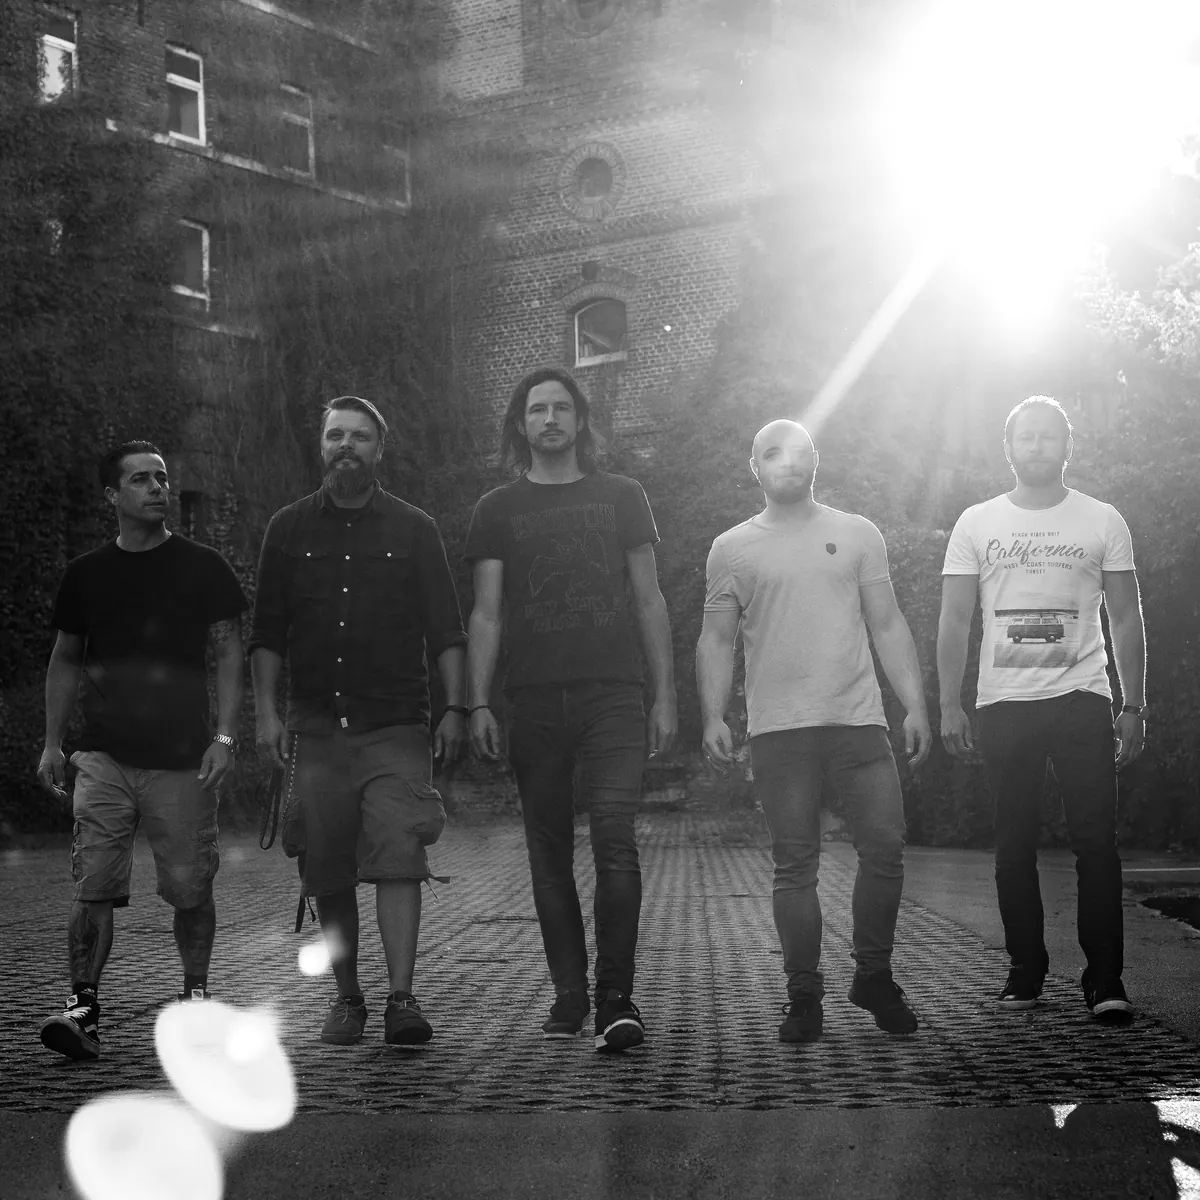
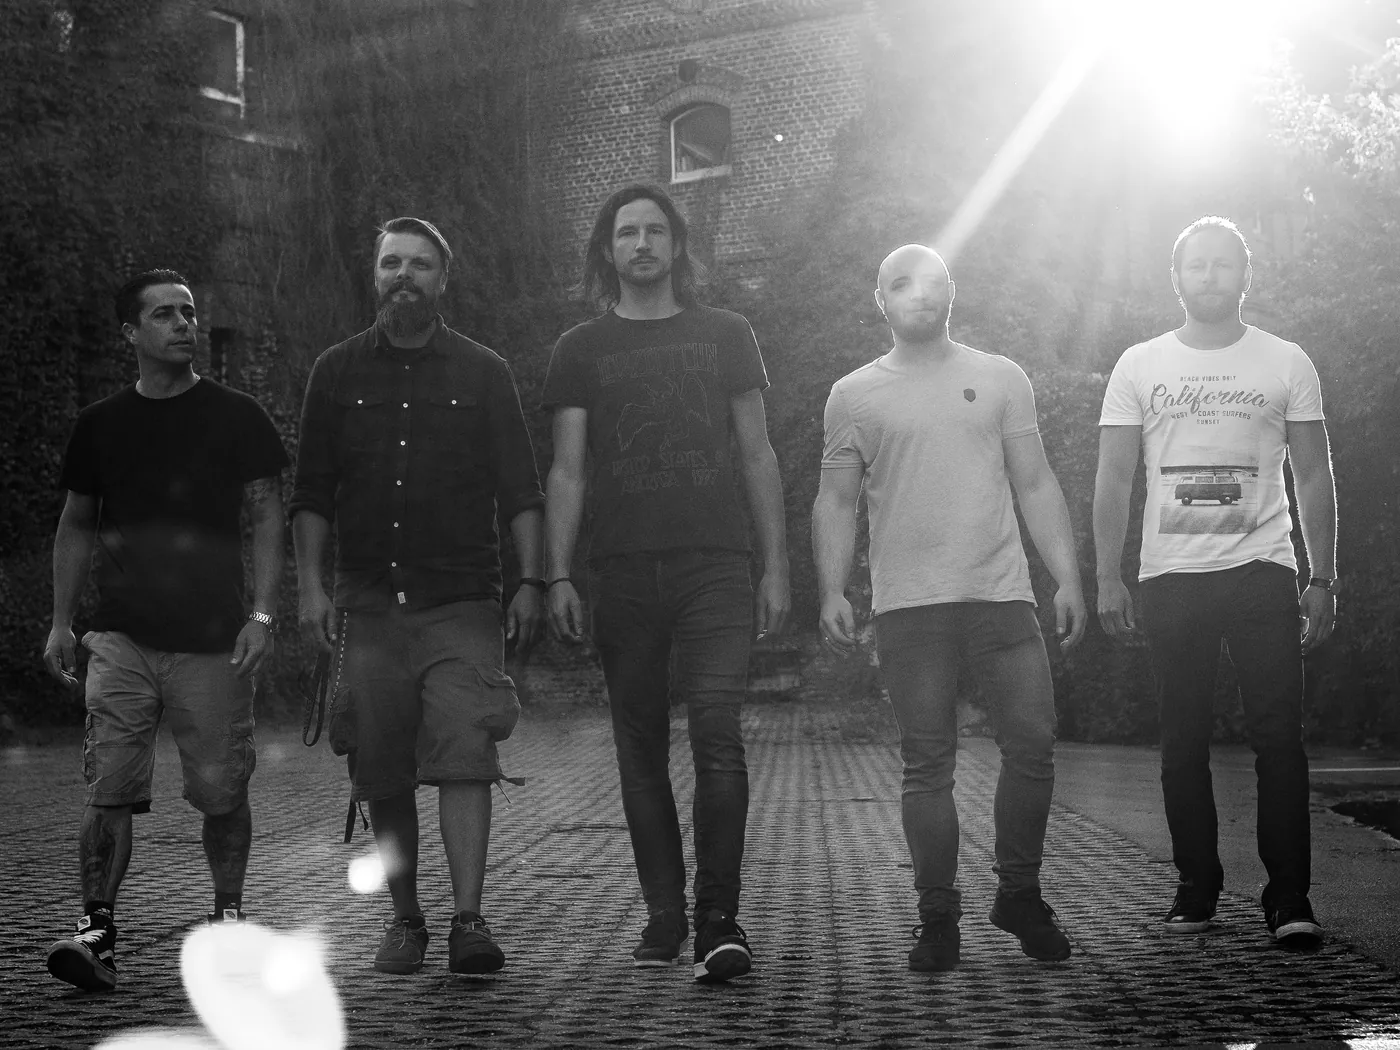
Wassenrock-Fotos, Start-Foto mit allen fünf, Spruch entfernt
- Galerie: 12 Fotos vom Wassenrock 2024 (Armin Zedler) statt Proberaum-Fotos,
  als Schwarz-Weiß gespeichert, Gruppe und jedes Mitglied einzeln
- Start-Foto: alle fünf sichtbar (Handy neuer Zuschnitt, Desktop ohne
  seitlichen Beschnitt), Logo kleiner und unten
- Claim im Hero und in og:description entfernt
- Abschnittstitel einzeilig, „Kontakt“ bricht nicht mehr um
- CLAUDE.md/STAND.md: Design-System als Quelle, Stand nachgetragen

diff --git a/index.html b/index.html
@@ -10,7 +10,7 @@
   <link rel="apple-touch-icon" href="assets/img/apple-touch-icon.png">
   <meta property="og:type" content="website">
   <meta property="og:title" content="NOFUNKSHUN">
-  <meta property="og:description" content="Post-Rock · Stoner · Metal aus Aachen. Musik soll man nicht nur hören, sondern vor allem spüren.">
+  <meta property="og:description" content="Post-Rock · Stoner · Metal aus Aachen.">
   <meta property="og:image" content="assets/img/hero-quer.webp">
   <link rel="preload" href="assets/fonts/grunge.ttf" as="font" type="font/ttf" crossorigin>
   <link rel="stylesheet" href="styles.css">
@@ -57,10 +57,6 @@
           <img src="assets/img/logo.webp" alt="Nofunkshun" width="900" height="872">
         </h1>
         <p class="hero__genre">Post-Rock · Stoner · Metal · Aachen</p>
-        <p class="hero__claim">
-          <span lang="de">Musik soll man nicht nur hören, sondern vor allem spüren.</span>
-          <span lang="en">Music isn’t just meant to be heard. It’s meant to be felt.</span>
-        </p>
         <div class="hero__cta">
           <a class="btn btn--solid" href="https://open.spotify.com/artist/3h1Febi28MziUNpcq5khGA" target="_blank" rel="noopener">
             <span lang="de">Auf Spotify hören</span><span lang="en">Listen on Spotify</span>
@@ -155,20 +151,28 @@
     <section class="sec" id="fotos">
       <h2 class="sec__title"><span lang="de">Fotos</span><span lang="en">Photos</span></h2>
       <div class="gallery">
-        <a href="assets/img/foto-00810.webp" class="g--wide g--big"><img src="assets/img/foto-00810.webp" alt="Nofunkshun vor einer Graffitiwand" loading="lazy"></a>
-        <a href="assets/img/foto-00880.webp"><img src="assets/img/foto-00880.webp" alt="Gesang im Proberaum" loading="lazy"></a>
-        <a href="assets/img/foto-00905.webp"><img src="assets/img/foto-00905.webp" alt="Bassdrum mit Nofunkshun-Logo" loading="lazy"></a>
-        <a href="assets/img/foto-00939.webp"><img src="assets/img/foto-00939.webp" alt="Schlagzeug" loading="lazy"></a>
-        <a href="assets/img/foto-00917.webp"><img src="assets/img/foto-00917.webp" alt="Bandmitglied am Mikrofon" loading="lazy"></a>
-        <a href="assets/img/foto-00893.webp"><img src="assets/img/foto-00893.webp" alt="Gitarrist im Gegenlicht" loading="lazy"></a>
-        <a href="assets/img/foto-00815.webp"><img src="assets/img/foto-00815.webp" alt="Bandfoto vor Graffiti" loading="lazy"></a>
-        <a href="assets/img/foto-00907.webp" class="g--wide"><img src="assets/img/foto-00907.webp" alt="Gitarrist vor Marshall-Verstärker" loading="lazy"></a>
+        <a href="assets/img/wassenrock-0022.webp" class="g--wide"><img src="assets/img/wassenrock-0022.webp" alt="Nofunkshun auf der Bühne vor dem Banner, Wassenrock 2024" loading="lazy"></a>
+        <a href="assets/img/wassenrock-0004.webp"><img src="assets/img/wassenrock-0004.webp" alt="Gesang" loading="lazy" style="object-position:50% 20%"></a>
+        <a href="assets/img/wassenrock-0090.webp"><img src="assets/img/wassenrock-0090.webp" alt="Bass" loading="lazy" style="object-position:50% 30%"></a>
+        <a href="assets/img/wassenrock-0016.webp"><img src="assets/img/wassenrock-0016.webp" alt="Gitarre" loading="lazy" style="object-position:50% 30%"></a>
+        <a href="assets/img/wassenrock-0012.webp"><img src="assets/img/wassenrock-0012.webp" alt="Gitarre" loading="lazy"></a>
+        <a href="assets/img/wassenrock-0053.webp" class="g--wide"><img src="assets/img/wassenrock-0053.webp" alt="Schlagzeug" loading="lazy" style="object-position:50% 70%"></a>
+        <a href="assets/img/wassenrock-0074.webp"><img src="assets/img/wassenrock-0074.webp" alt="Bass und Gitarre nebeneinander" loading="lazy" style="object-position:50% 35%"></a>
+        <a href="assets/img/wassenrock-0028.webp"><img src="assets/img/wassenrock-0028.webp" alt="Schlagzeug mit Nofunkshun-Bassdrum" loading="lazy" style="object-position:50% 75%"></a>
+        <a href="assets/img/wassenrock-0047.webp" class="g--wide"><img src="assets/img/wassenrock-0047.webp" alt="Die Band auf der Wassenrock-Bühne" loading="lazy"></a>
+        <a href="assets/img/wassenrock-0042.webp" class="g--wide"><img src="assets/img/wassenrock-0042.webp" alt="Gitarre und Bass" loading="lazy" style="object-position:50% 65%"></a>
+        <a href="assets/img/wassenrock-0081.webp"><img src="assets/img/wassenrock-0081.webp" alt="Gesang, Nahaufnahme" loading="lazy" style="object-position:70% 50%"></a>
+        <a href="assets/img/wassenrock-0025.webp"><img src="assets/img/wassenrock-0025.webp" alt="Bass vor dem Banner" loading="lazy" style="object-position:50% 55%"></a>
       </div>
+      <p class="gallery__credit">
+        <span lang="de">Fotos: Armin Zedler · Wassenrock 2024</span><span lang="en">Photos: Armin Zedler · Wassenrock 2024</span>
+        · <a href="https://www.armin-zedler.de" target="_blank" rel="noopener">armin-zedler.de</a>
+      </p>
     </section>
 
     <!-- ── KONTAKT ──────────────────────────────────────── -->
     <section class="sec sec--contact" id="kontakt">
-      <h2 class="sec__title"><span lang="de">Kontakt</span><span lang="en">Contact</span></h2>
+      <h2 class="sec__title" style="--title-em:11"><span lang="de">Kontakt</span><span lang="en">Contact</span></h2>
       <p class="kicker"><span lang="de">Booking &amp; Anfragen</span><span lang="en">Booking &amp; inquiries</span></p>
       <a class="mail" href="mailto:nofunkshun@gmail.com?subject=Booking%20Nofunkshun">nofunkshun@gmail.com</a>
       <ul class="social">

diff --git a/styles.css b/styles.css
@@ -86,21 +86,37 @@ html[data-lang="en"] .lang [data-set-lang="en"] { background: var(--ink); color:
 .hero__bg, .hero__bg img {
   position: absolute; inset: 0; width: 100%; height: 100%; z-index: -2;
 }
-.hero__bg img { object-fit: cover; object-position: 50% 30%; filter: grayscale(1) contrast(1.15) brightness(.72); }
+.hero__bg img { filter: grayscale(1) contrast(1.1) brightness(.8); }
+/* Bandfoto immer ganz zeigen: alle fünf im Bild, kein Rand abgeschnitten.
+   Hochkant/schmal: Foto oben unter der Kopfleiste, Logo darunter. */
+.hero__bg img { object-fit: contain; object-position: 50% 56px; }
+/* Logo-Block unten, damit kein Gesicht verdeckt wird */
+.hero { place-items: end center; }
+/* Hochkant: Foto als Band oben, unterer Rand läuft weich in den Grund aus */
+@media (max-aspect-ratio: 1/1) {
+  .hero__bg img {
+    top: 56px; bottom: auto; height: auto; object-fit: fill;
+    -webkit-mask-image: linear-gradient(to bottom, #000 75%, transparent);
+            mask-image: linear-gradient(to bottom, #000 75%, transparent);
+  }
+}
+/* Breiter als das Foto (16:9): füllen, oben ausrichten, Köpfe bleiben drin */
+@media (min-aspect-ratio: 16/9) {
+  .hero__bg img { object-fit: cover; object-position: 50% 15%; }
+}
 .hero::before {
   content: ""; position: absolute; inset: 0; z-index: -1;
   background:
-    radial-gradient(ellipse at 50% 40%, rgba(11,11,11,.15), rgba(11,11,11,.75) 70%),
+    radial-gradient(ellipse at 50% 40%, rgba(11,11,11,.1), rgba(11,11,11,.4) 80%),
     linear-gradient(to bottom, rgba(11,11,11,0) 55%, var(--bg));
 }
 .hero__inner { width: 100%; max-width: 720px; }
-.hero__logo { margin: 0 auto; width: min(78vw, 460px); }
+.hero__logo { margin: 0 auto; width: min(66vw, 330px); }
 .hero__logo img { width: 100%; filter: drop-shadow(0 4px 30px rgba(0,0,0,.6)); }
 .hero__genre {
-  margin: 22px 0 10px;
+  margin: 22px 0 28px;
   font: 600 11px/1.4 var(--mono); letter-spacing: .14em; text-transform: uppercase; color: var(--ink-dim);
 }
-.hero__claim { margin: 0 auto 28px; max-width: 30ch; font-size: clamp(18px, 4.6vw, 24px); line-height: 1.35; }
 .hero__cta { display: flex; flex-wrap: wrap; gap: 12px; justify-content: center; }
 .hero__down {
   position: absolute; bottom: 18px; left: 50%; transform: translateX(-50%);
@@ -130,9 +146,11 @@ html[data-lang="en"] .lang [data-set-lang="en"] { background: var(--ink); color:
 }
 .sec__title {
   margin: 0 0 32px;
-  font: 400 clamp(38px, 11vw, 96px)/1 var(--display);
+  /* Grunge läuft in Großbuchstaben sehr breit. Titel bleiben einzeilig und
+     werden so klein, dass das breiteste Wort (--title-em, Breite in em) passt. */
+  font: 400 min(clamp(38px, 11vw, 96px), calc((min(100vw, var(--max)) - 2 * var(--pad)) / var(--title-em, 8.9)))/1 var(--display);
   letter-spacing: 0; text-transform: uppercase;
-  overflow-wrap: anywhere;
+  white-space: nowrap;
   transform: rotate(-1.5deg); transform-origin: left;
 }
 .sec__title::after {
@@ -209,10 +227,11 @@ html[data-lang="en"] .lang [data-set-lang="en"] { background: var(--ink); color:
 .gallery .g--wide { grid-column: span 2; aspect-ratio: 2 / 1.2; }
 .gallery img {
   width: 100%; height: 100%; object-fit: cover;
-  filter: grayscale(1) contrast(1.1);
-  transition: filter .4s, transform .6s;
+  transition: transform .6s;
 }
-.gallery a:hover img, .gallery a:focus-visible img { filter: none; transform: scale(1.03); }
+/* Fotos sind schon schwarz-weiß gespeichert; beim Drüberfahren nur Zoom */
+.gallery a:hover img, .gallery a:focus-visible img { transform: scale(1.03); }
+.gallery__credit { margin: 14px 0 0; font: 12px/1.6 var(--mono); letter-spacing: .1em; text-transform: uppercase; color: var(--ink-dim); }
 
 /* ── Kontakt ────────────────────────────────── */
 .sec--contact { padding-bottom: 96px; }

diff --git a/STAND.md b/STAND.md
@@ -2,6 +2,10 @@
 
 **08.11.2026 · ONLINE: https://daddytomsen.github.io/nofunkshun/** (Repo daddytomsen/nofunkshun, öffentlich, Pages aus `main` /root, HTTPS an). Spotify-Player live geprüft. Nächster Schritt: Domain nofunkshun.de bei INWX (Thomas bucht), dann CNAME + DNS.
 
+**08.11.2026 nachmittags · Design-System angelegt:** https://claude.ai/artifact/R4JMHWAvCYierNeu9i2Ws5 (Tokens aus styles.css, Grunge-Schrift, 12 Bauteile, Logos/Artwork/Fotos). Die Website nutzt es noch nicht direkt: Variablennamen weichen ab (`--display` statt `--font-display` usw.), und der Hover des gefüllten Buttons zeigt `ink` auf `accent` (3,55:1) statt `bg` auf `accent`.
+
+**08.11.2026 abends · Fotos und Start überarbeitet (lokal, noch nicht hochgeladen):** Galerie durch 12 Wassenrock-2024-Fotos ersetzt (Gruppe + jedes Mitglied einzeln, als Schwarz-Weiß gespeichert, Nennung „Fotos: Armin Zedler“ unter der Galerie). Start-Foto zeigt jetzt alle fünf (Handy: neuer Zuschnitt aus DSC00787; Desktop: Foto wird nicht mehr seitlich beschnitten, Logo sitzt tiefer und kleiner). Claim „Musik soll man nicht nur hören …“ auf Thomas' Wunsch entfernt. **Design-System nachziehen:** Hero ohne Claim, Galerie-Fotos ohne Farbe beim Drüberfahren, Logo im Hero 330 px unten statt 460 px mittig.
+
 ## Was drin ist
 - `index.html` – eine Seite: Start (Logo, Claim, Spotify, nächster Gig) · Live · Musik (Black Moon EP, Spotify-Player per Zwei-Klick, Teaser-Video) · Band (Bio + Besetzung) · Fotos · Kontakt
 - DE/EN-Umschalter (merkt sich die Wahl; Erstwahl nach Browsersprache)
@@ -14,7 +18,8 @@
 |---|---|
 | Bio, Besetzung | `Bio Nofunkshun.docx` (sprachlich gestrafft, EN übersetzt, nichts ergänzt) |
 | Logo, Black-Moon-Logo, Cover | `Art-Work/` (Logo für dunklen Grund weiß umgefärbt) |
-| Fotos | `Bandfotos/` DSC00787 (Start mobil), DSC00782 (Start Desktop), 00810, 00880, 00905, 00939, 00917, 00893, 00815, 00907 |
+| Start-Foto | `Bandfotos/` DSC00787 (mobil, Zuschnitt mit allen fünf), DSC00782 (Desktop) |
+| Galerie | `/Volumes/Transcend/Nofunkshun/Nofunkshun/Wassernrock 07.09.24 3000 NoFunkshun/` Nr. 0022, 0004, 0090, 0016, 0012, 0053, 0074, 0028, 0047, 0042, 0081, 0025 – Fotograf Armin Zedler (Wasserzeichen bleibt drin) |
 | Teaser | `Videos/Nofunkshun Black Moon Teaser 2021 Kopie.mp4` → 720p, 8,7 MB |
 | Schrift Überschriften | `Art-Work/grunge.ttf` |
 | Tracklist EP | Dateinamen in `Album_Black Moon/` |
@@ -30,7 +35,8 @@ Bewusst **nicht** verwendet: Fotos mit „Bruises“-Banner (fremde Band), Wasse
 3. **YouTube:** Kanal existiert offenbar (Screenshot im Artwork), Link fehlt.
 4. **Vergangene Gigs** in `gigs.js` nachtragen; Datum MUBU 2019.
 5. Wer ist auf welchem Foto? (Dann wären Einzelfotos bei der Besetzung möglich.)
-6. Fotograf/in der Bandfotos nennen?
+6. Fotograf/in der Proberaum-Bandfotos (Start-Foto) nennen? Für die Wassenrock-Fotos steht Armin Zedler drin – passt die Nutzung mit ihm so?
+7. ~~„KONTAKT“ brach um (T in zweiter Zeile)~~ – behoben 08.11.2026: Abschnittstitel bleiben einzeilig und verkleinern sich nach Wortbreite (`--title-em`, Standard 8,9 em, Kontakt 11 em). Ins Design-System übernehmen.
 
 ## Vorschau lokal
 Vorschau-Server „nofunkshun“ (Port 8798) liest aus einem Scratchpad-Spiegel, weil der Server `~/Downloads` nicht lesen darf. Nach Änderungen: `rsync -a --delete --exclude .claude ~/Downloads/nofunkshun-website/ <spiegel>/`.

diff --git a/CLAUDE.md b/CLAUDE.md
@@ -11,6 +11,9 @@ Eine einseitige Landingpage für die Band „nofunkshun“: wer die Band ist, wi
 - Keine fremden Logos oder Markennamen erfinden. Plattform-Links (Spotify, Bandcamp …) als schlichte Textlinks bzw. eigene neutrale Icons.
 - Fotos und Logo nur aus den Quellen, die Thomas nennt. Originale bleiben, wo sie sind; Kopien für die Seite liegen verkleinert in `assets/`.
 
+## Design-System
+Verbindliche Quelle für Farben, Schrift, Abstände, Bauteile und Bildsprache: **Nofunkshun Design System** https://claude.ai/artifact/R4JMHWAvCYierNeu9i2Ws5 (Artifact, privat). Vor jeder Gestaltungsänderung dort `project/README.md` lesen; neue Werte zuerst dort eintragen, dann in der Seite verwenden.
+
 ## Technik
 - Statische Seite: `index.html`, `styles.css`, optional ein kleines `script.js`. Keine Build-Kette, keine Frameworks, keine externen Tracker.
 - Mobil zuerst, dann Desktop. Hell/dunkel nach Stil der Band, nicht nach Systemvorgabe, wenn Thomas nichts anderes sagt.
